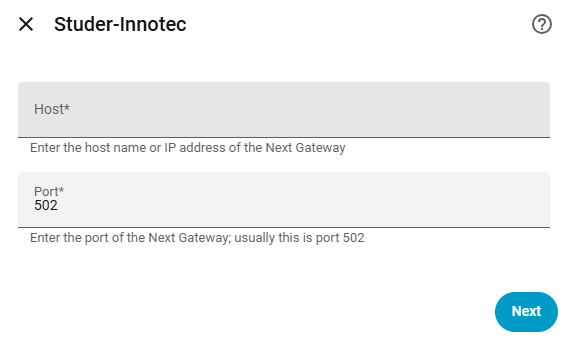
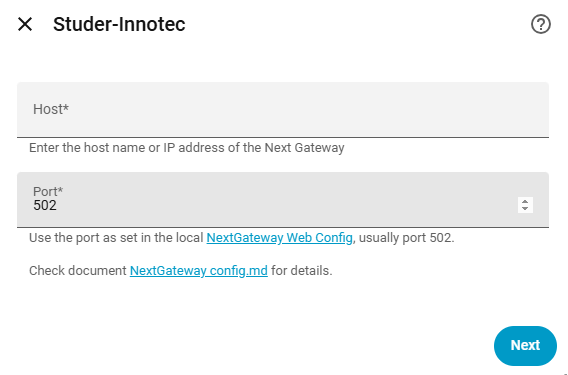
Separate Readme for NextGateway settings

diff --git a/custom_components/studer_xcom/config_flow.py b/custom_components/studer_xcom/config_flow.py
@@ -54,6 +54,8 @@ from .const import (
     DEFAULT_USER_LEVEL,
     DEFAULT_POLLING_INTERVAL,
     DOMAIN,
+    NEXT_DATASET_FLAGS,
+    NEXT_FAMILIES_FLAGS,
     PRODUCTS,
     PRODUCTS_NUMBERS_URL,
     PRODUCTS_README_URL,
@@ -363,7 +365,7 @@ class StuderFlowHandler(ConfigEntryBaseFlow):
 
     async def async_step_next_gateway(self, user_input: dict[str,Any] | None = None) -> FlowResult:
         """
-        Step 1: to get the NextGateway client configuration
+        Step 1: to get the Next Gateway client configuration
         """        
         if user_input is not None:
             # Get form data
@@ -389,7 +391,7 @@ class StuderFlowHandler(ConfigEntryBaseFlow):
 
         # Show the form to configure the port
         _LOGGER.debug(f"Step next_gateway - show form")
-        
+
         return self.async_show_form(
             step_id = "next_gateway", 
             data_schema = vol.Schema({
@@ -397,8 +399,8 @@ class StuderFlowHandler(ConfigEntryBaseFlow):
                 vol.Required(CONF_NEXT_GW_PORT, description={"suggested_value": self._next_gw_port}): cv.port
             }),
             description_placeholders = {
-                "next_config_url": f"[NextGateway Web Config]({self._next_webconfig_url})" if self._next_webconfig_url else "NextGateway Web Config",
-                "next_readme_url": f"[NextGateway config.md]({NEXT_README_URL})",
+                "next_config_url": f"[Next Gateway Web Config]({self._next_webconfig_url})" if self._next_webconfig_url else "Next Gateway Web Config",
+                "next_readme_url": f"[Next Gateway config.md]({NEXT_README_URL})",
                 "readme_url": INTEGRATION_README_URL
             },
             errors = self._errors,
@@ -497,16 +499,16 @@ class StuderFlowHandler(ConfigEntryBaseFlow):
                         _LOGGER.info(f"Could not determine Moxa Web Config url")
 
                 case PRODUCTS.NEXT:
-                    _LOGGER.info(f"Discover NextGateway Web Config")
+                    _LOGGER.info(f"Discover Next Gateway Web Config")
                     self._next_webconfig_url = await AsyncNextDiscover.discover_gateway_webconfig(self._next_webconfig_url)
                     if self._next_webconfig_url:
-                        _LOGGER.info(f"Discovered NextGateway Web Config at {self._next_webconfig_url}")
+                        _LOGGER.info(f"Discovered Next Gateway Web Config at {self._next_webconfig_url}")
 
                         # If no host was set yet then derive probable host ip from the webconfig url
                         if not self._next_gw_host:
                             self._next_gw_host = self._next_webconfig_url.replace("http://", "")
                     else:
-                        _LOGGER.info(f"Could not determine NextGateway Web Config url")
+                        _LOGGER.info(f"Could not determine Next Gateway Web Config url")
 
                 case _:
                     _LOGGER.warning(f"Step progress gateway webconfig - incorrect value for product: {self._product}")
@@ -548,9 +550,8 @@ class StuderFlowHandler(ConfigEntryBaseFlow):
                     next_gw_host=self._next_gw_host, 
                     next_gw_port=self._next_gw_port,
                 )
-                #AJH flag to add test family and datapoint
-                self._families = await NextDeviceFamilies.async_get_instance(flags={ NextDeviceFamiliesFlag.ADD_TEST: True })
-                self._dataset = await NextDataset.async_get_instance(flags={ NextDatasetFlag.ADD_TEST: True })
+                self._families = await NextDeviceFamilies.async_get_instance(flags=NEXT_FAMILIES_FLAGS)
+                self._dataset = await NextDataset.async_get_instance(flags=NEXT_DATASET_FLAGS)
                 self._discover = AsyncNextDiscover(self._coordinator._api, self._dataset)
 
             case _:
@@ -574,7 +575,7 @@ class StuderFlowHandler(ConfigEntryBaseFlow):
         
     
     async def _async_gw_connect(self, is_task=True):
-        """Test the port by connecting to the Studer Xcom client / NextGateway"""
+        """Test the port by connecting to the Studer Xcom client / Next Gateway"""
 
         try:
             _LOGGER.info("Discover gateway connection")
@@ -588,7 +589,7 @@ class StuderFlowHandler(ConfigEntryBaseFlow):
             else:
                 _LOGGER.info(f"Could not connect to Studer gateway.")
                 self._errors[CONF_XCOM_PORT] = f"Xcom gateway did not connect; make sure the Home Assistant IP address and this port are configured via the local Xcom Moxy Web Config"
-                self._errors[CONF_NEXT_GW_HOST] = f"Could not connect to NextGateway; make sure the specified gateway host and port match the setting in the NextGateway Web Config"                        
+                self._errors[CONF_NEXT_GW_HOST] = f"Could not connect to Next Gateway; make sure the specified gateway host and port match the setting in the Next Gateway Web Config"                        
 
         except Exception as e:
             _LOGGER.warning(f"Exception during discover of gateway connection: {e}")
@@ -609,7 +610,7 @@ class StuderFlowHandler(ConfigEntryBaseFlow):
 
     
     async def _async_gw_details(self, is_task=True):
-        """Discover information about the Studer Xcom client / NextGateway"""
+        """Discover information about the Studer Xcom client / Next Gateway"""
 
         try:
             _LOGGER.info("Discover gateway details")

diff --git a/custom_components/studer_xcom/const.py b/custom_components/studer_xcom/const.py
@@ -9,9 +9,11 @@ from homeassistant.const import Platform
 
 from pystudershared import StuderUserLevel
 from pystuderxcom import XcomVoltage
+from pystudernext import NextDatasetFlag, NextDeviceFamiliesFlag
 
 
 _LOGGER: logging.Logger = logging.getLogger(__package__)
+
 
 # Base component constants
 DOMAIN = "studer_xcom"
@@ -73,7 +75,6 @@ DEFAULT_NEXT_FAMILY_NUMBERS = {
     "pwr": [300,302,304,324,326,328],
     "tst": [840,841,842,843,844]
 }
-
 DEFAULT_PRODUCT_FAMILY_NUMBERS = {
     PRODUCTS.XCOM: DEFAULT_XCOM_FAMILY_NUMBERS,
     PRODUCTS.NEXT:    DEFAULT_NEXT_FAMILY_NUMBERS,
@@ -98,7 +99,7 @@ CONF_CLIENT_INFO = "client_info" # depricates, replaced by CONF_GATEWAY_INFO
 INTEGRATION_README_URL = "https://github.com/ankohanse/hass-studer-xcom/blob/master/README.md"
 XCOM_README_URL = "https://github.com/ankohanse/hass-studer-xcom/blob/master/Xcom-LAN%20config.md"
 XCOM_APPENDIX_URL = "https://github.com/ankohanse/pystuderxcom/blob/master/documentation/Technical%20specification%20-%20Xtender%20serial%20protocol%20appendix%20-%201.6.38.pdf"
-NEXT_README_URL = "https://github.com/ankohanse/hass-studer-xcom/blob/master/NextGateway%20config.md"
+NEXT_README_URL = "https://github.com/ankohanse/hass-studer-xcom/blob/master/Next-Gateway%20config.md"
 NEXT_MODBUS_APPENDIX_URL = "https://github.com/ankohanse/pystudernext/blob/master/documentation/Technical%20specification%20%E2%80%93%20Next%20Modbus%20appendix%20v10.73.pdf"
 
 PRODUCTS_README_URL = {
@@ -146,3 +147,12 @@ CACHE_WRITE_PERIOD = 60*60 # seconds
 
 # Diagnostics
 DIAGNOSTICS_REDACT = { 'conf_secret1', 'conf_secret2' }
+
+# Testing
+# (uncomment if needed)
+NEXT_FAMILIES_FLAGS = { NextDeviceFamiliesFlag.ADD_TEST: True }
+NEXT_DATASET_FLAGS = { NextDatasetFlag.ADD_TEST: True }
+#
+# NEXT_FAMILIES_FLAGS = {}
+# NEXT_DATASET_FLAGS = {}
+

diff --git a/custom_components/studer_xcom/coordinator.py b/custom_components/studer_xcom/coordinator.py
@@ -46,6 +46,8 @@ from .const import (
     NAME,
     MANUFACTURER,
     COORDINATOR,
+    NEXT_DATASET_FLAGS,
+    NEXT_FAMILIES_FLAGS,
     PREFIX_ID,
     PREFIX_NAME,
     PRODUCTS,
@@ -475,9 +477,8 @@ class StuderCoordinator(DataUpdateCoordinator[dict[str,StuderEntityData]]):
 
             case PRODUCTS.NEXT:
                 # Load NextDataset from file(s)
-                #AJH flag to add test family and datapoint
-                families = await NextDeviceFamilies.async_get_instance(flags={ NextDeviceFamiliesFlag.ADD_TEST: True })
-                dataset = await NextDataset.async_get_instance(flags={ NextDatasetFlag.ADD_TEST: True })
+                families = await NextDeviceFamilies.async_get_instance(flags=NEXT_FAMILIES_FLAGS)
+                dataset = await NextDataset.async_get_instance(flags=NEXT_DATASET_FLAGS)
 
             case _:
                 _LOGGER.warning(f"Unknown product '{self._product}' found during creation of entity map")

diff --git a/custom_components/studer_xcom/__init__.py b/custom_components/studer_xcom/__init__.py
@@ -42,9 +42,6 @@ from .const import (
     PRODUCTS,
     XCOM_TITLE_FMT,
 )
-from .services import (
-    async_setup_services,
-)
 
 _LOGGER = logging.getLogger(__name__)
 
@@ -103,10 +100,6 @@ async def async_setup_entry(hass: HomeAssistant, config_entry: ConfigEntry) -> b
     # Cleanup entities and devices
     await coordinator.async_cleanup_entities(config_entry)
     await coordinator.async_cleanup_devices(config_entry)
-
-    # Setup services
-    # Disabled for now as only Xcom supports it
-    # await async_setup_services(hass, config_entry)
 
     # Reload entry when it is updated
     config_entry.async_on_unload(config_entry.add_update_listener(_async_update_listener))

diff --git a/README.md b/README.md
@@ -32,21 +32,12 @@ This device depends on having a Studer Xcom-LAN (i.e. an Xcom-232i and a Moxa et
 
 The Studer Xcom-LAN is able to simultaneously send data to the Studer online portal as well as sending data to this integration.
 
+A detailed description of the required settings can be found in document [Xcom-LAN config.md](Xcom-LAN%20config.md)
+
 ## Next product family
-This library depends on the Next3/Next1 configured to have modbus TCP enabled:
+This library depends on the Next3/Next1 configured to have modbus TCP enabled.
 
-- Open the Studer Next Web Config
-- Go to 'Monitoring'
-- To the right of 'Modbus' press the 'Config' button
-- Turn 'Modbus mode' On
-- Use the following properties:
-    * Modbus mode: TCP
-    * Base address: 0
-- Make a note of the other properties:
-    * IP address (address of the Next3 or Next1)
-    * Port (default is 502)
-
-After a few seconds, the Studer modbus configuration should indicate status: 'Ready and listening'.
+A detailed description of the required settings can be found in document [Next-Gateway config.md](Next-Gateway%20config.md)
 
 # Installation
 
@@ -80,12 +71,14 @@ This custom integration is available via HACS (Home Assistant Community Store).
     │   ├── coordinator.py
     │   ├── diagnostics.py
     │   ├── entity_base.py
+    │   ├── entity_helper.py
     │   ├── manifest.json
     │   ├── number.py
     │   ├── select.py
     │   ├── sensor.py
     │   ├── strings.json
-    │   └── switch.py
+    │   ├── switch.json
+    │   └── time.py
     ```
 
 2. Restart Home Assistant.
@@ -126,12 +119,12 @@ In that case, check the configuration of the Xcom-LAN device as described in doc
 
 ## Step 3b - Next gateway details
 
-Enter the properties are required to connect to the NExt gateway on the local network
+Enter the properties are required to connect to the Next gateway on the local network
   
 ![setup_step_3b](documentation/setup_gateway_next.png)
 
 If the discovery of Studer devices in step 4 fails then the configuration returns to the screen of step 3b.
-In that case, check the configuration of the Next Gateway as described in the 'prerequisites' section above
+In that case, check the configuration of the Next Gateway as described in document [Next-Gateway config.md](Next-Gateway%20config.md)
 
 ## Step 4 - Device discovery
 

diff --git a/Next-Gateway config.md b/Next-Gateway config.md
@@ -1,0 +1,31 @@
+# Next Gateway configuration
+
+This integration depends on having a Studer Next Gateway (part of the Next1 or Next3) acting as a modbus server that this integration can connect to
+
+The Studer Next Gateway is able to simultaneously send data to the Studer online portal as well as sending data to this integration.
+
+
+## Next Gateway Web-Config
+
+The Next Gateway Web-Config can be used to setup and configure the Studer modbus server.
+To open the web-config, click on the link that was detect during the first step of the integration configuration
+
+![setup_step_1](documentation/setup_gateway_next2.png)
+
+Use the configuration settings described below to be able to connect both to the Studer-Innotec servers as well as to the Home Assistant integration.
+
+- Open the Studer Next Gateway Web-Config
+- Go to 'Monitoring'
+- To the right of 'Modbus' press the 'Config' button
+- Turn 'Modbus mode' On
+- Use the following properties:
+    * Modbus mode: TCP
+    * Base address: 0
+- Make a note of the other properties:
+    * IP address (address of the Next3 or Next1)
+    * Port (default is 502)
+
+After a few seconds, the Studer modbus configuration should indicate Modbus TCP server status: 'Ready and listening'.
+
+  ![next_gateway_settings1](documentation/next_gateway_settings1.png)
+  ![next_gateway_settings2](documentation/next_gateway_settings2.png)

diff --git a/Xcom-LAN config.md b/Xcom-LAN config.md
@@ -12,7 +12,7 @@ To open the web-config, click on the link that was detect during the first step 
 
 Alternatively, follow the steps as described in section [Device Search Utiliy](#device-search-utility)
 
-![setup_step_1](documentation/setup_client_moxa.png)
+![setup_step_1](documentation/setup_gateway_xcom2.png)
 
 Use the configuration settings described below to be able to connect both to the Studer-Innotec servers as well as to the Home Assistant integration.
 
@@ -50,4 +50,4 @@ If the first step of the integration step was not able to locate the link to the
 
       ![dsu_search_results](documentation/DSU_results.png)
 
-3. Continue as described in section [Moxa configuration](#moxa-configuration)
+3. Continue as described in section [Moxa Web Config](#moxa-web-config)
